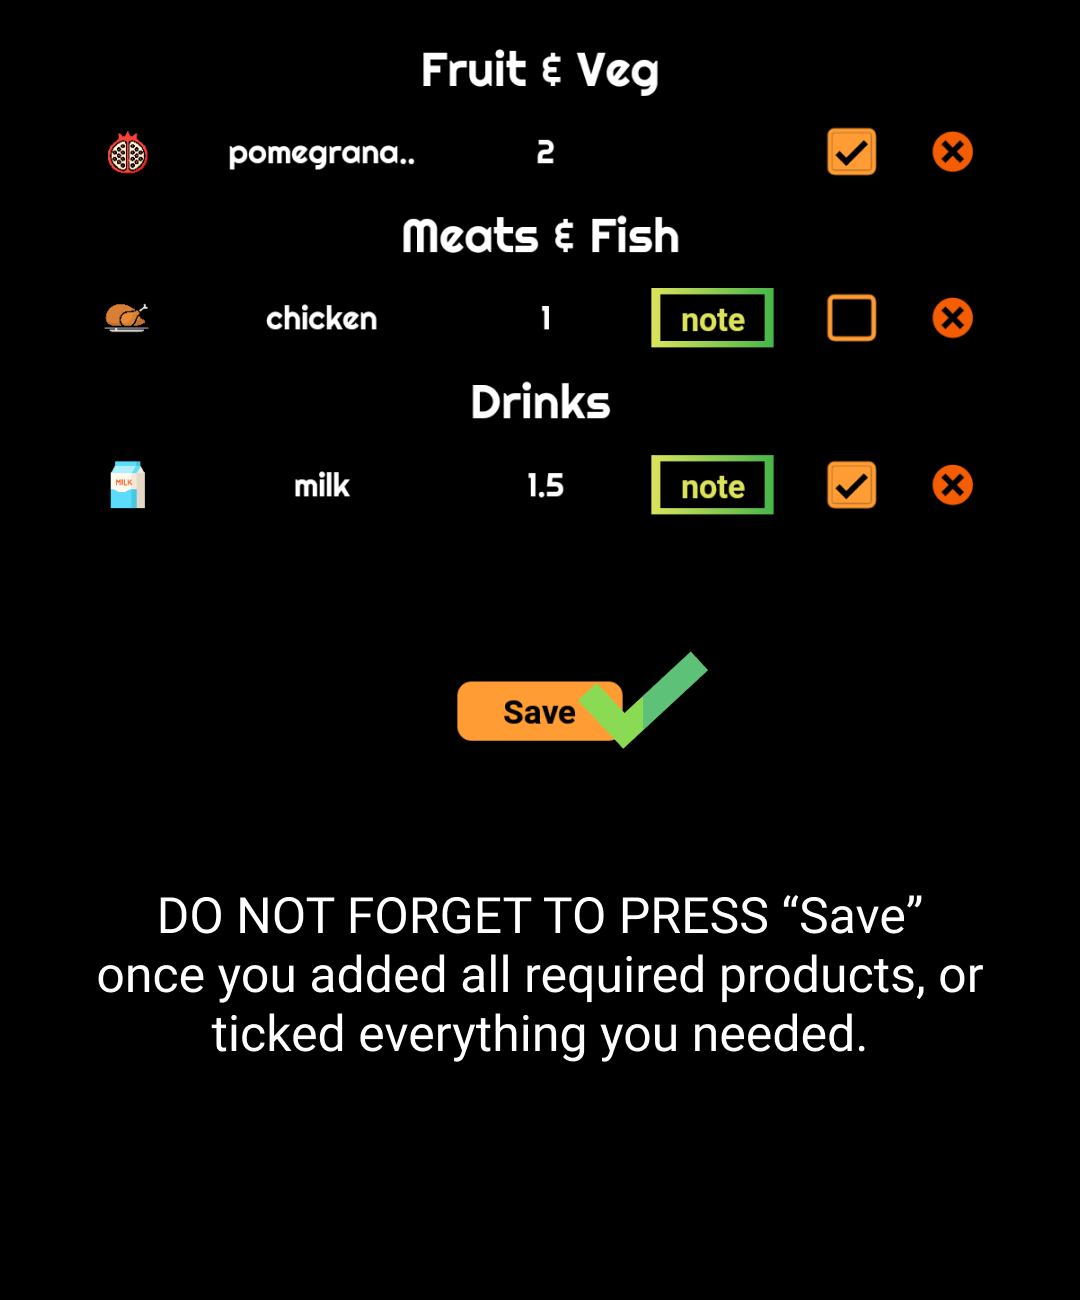
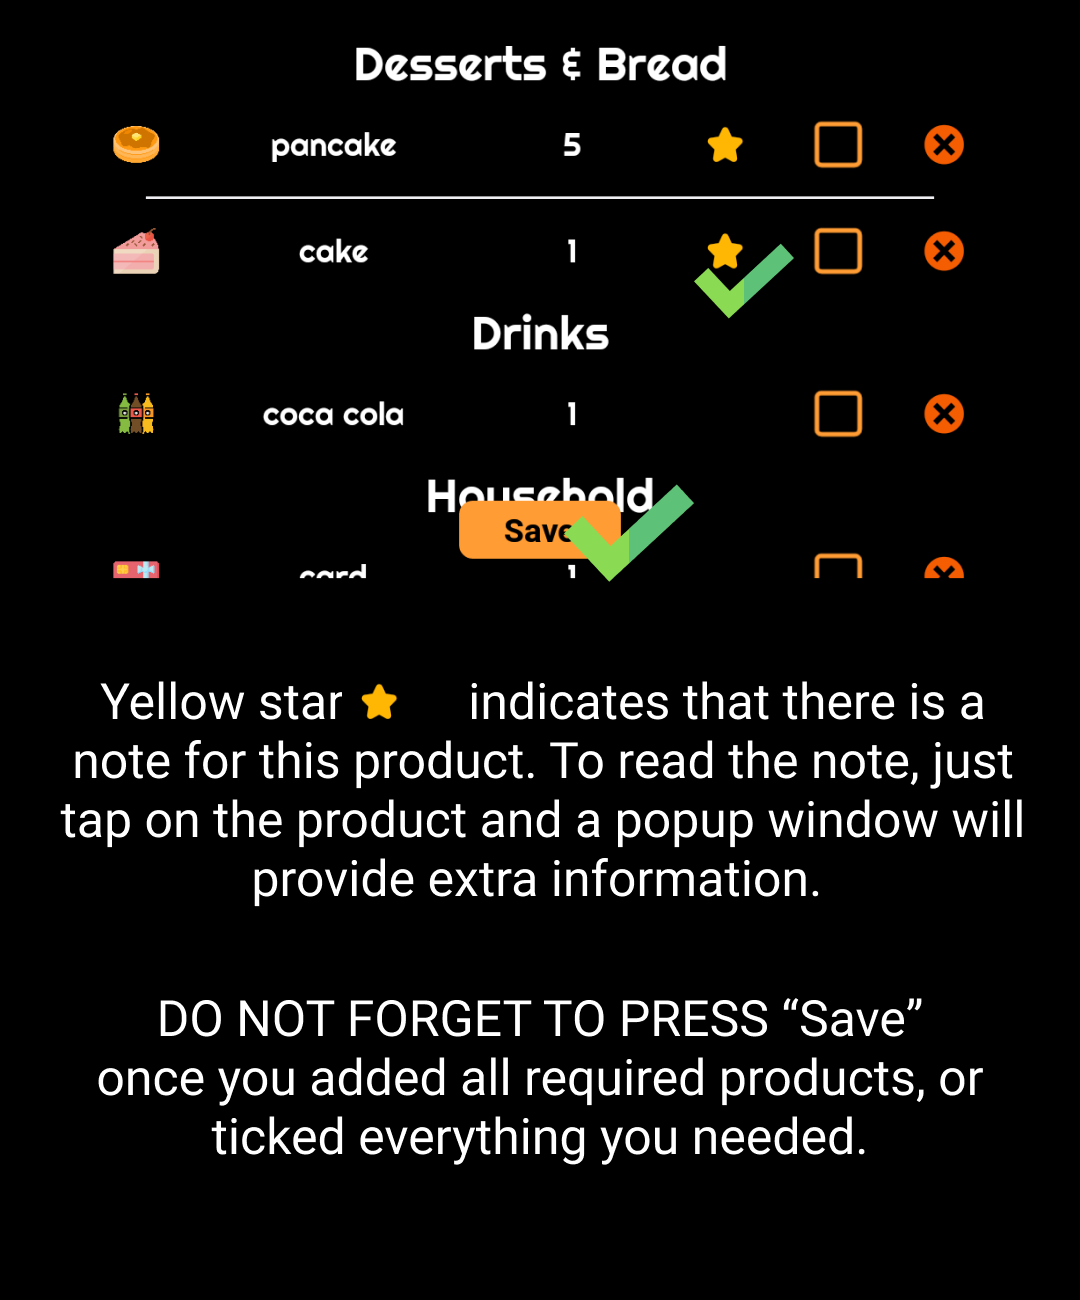
note changed to star

diff --git a/Pages/Basket.js b/Pages/Basket.js
@@ -15,7 +15,8 @@ import {
     ActivityIndicator,
     SafeAreaView,
     Keyboard,
-    TouchableWithoutFeedback
+    TouchableWithoutFeedback,
+    Modal
   
   } from 'react-native';
   import SearchDropDown from '../elements/SearchDropDown'
@@ -24,6 +25,7 @@ import {
   
   import Octicon from 'react-native-vector-icons/Octicons'
   import Icon from 'react-native-vector-icons/Entypo'
+  import AntDesign from 'react-native-vector-icons/AntDesign'
 
   import firestore from '@react-native-firebase/firestore'
   import firebase from '@react-native-firebase/app'
@@ -85,7 +87,8 @@ import {
     
     const [visBasket, setVisBasket] = useState(null)
 
-    const [visible, setVisible] = useState(false)
+    const [visibleNoneSpec, setVisibleNoneSpec] = useState(false)
+    const [visibleSpec, setVisibleSpec] = useState(false)
     const [visOrNot, setVisOrNot] = useState(false)
     const [isKeyboardVisible, setKeyboardVisible] = useState(false)
 
@@ -112,7 +115,6 @@ import {
         if(parsedFirst === null) {
           console.log('Tut?', parsedFirst)
           setFirstTime(true)
-          console.log(firstTime)
         } else {
           console.log('zdes', firstTime, parsedFirst)
           setFirstTime(false)}
@@ -582,7 +584,7 @@ try {
           <Pressable
           onPress={onPress}
           style={[styles.checkBox, style,
-          completed && {backgroundColor: '#FF9C33'}]}
+          completed && {backgroundColor: '#45B649', borderColor:'#45B649'}]}
           >
             {completed && <Octicon name="check" size={18} color='black' style={{position: 'absolute'}}/>}
           </Pressable>
@@ -709,25 +711,21 @@ setTempAmount(newAmount)
           
         return (
           <View>
-            <ModalPopup visible={visible} heightParam='40%'> 
+            <ModalPopup visible={visibleNoneSpec} heightParam='40%'> 
+              <LinearGradient start={{x:0, y:0}} end={{x:1, y:0}} colors={['#DCE35B', '#45B649']} style={styles.modalGradient}> 
 
-          <LinearGradient start={{x:0, y:0}} end={{x:1, y:0}} colors={['#DCE35B', '#45B649']} style={styles.modalGradient}> 
+                <View style={styles.modalView}>
+                <Text style={styles.modalText}>{tempName} : {tempAmount} {'\n'}{tempSpec}</Text>
+                  <LinearGradient start={{x:0, y:0}} end={{x:1, y:0}} colors={['#DCE35B', '#45B649']} style={styles.modalButtonGradient}> 
+                    <TouchableOpacity onPress={() => {setVisibleNoneSpec(false), setLoading(false)}} style={styles.confirmButton}>
+                       <Text style={{color: '#DCE35B'}}>Okay</Text>
+                    </TouchableOpacity>
+                  </LinearGradient>
+                </View>
 
-            <View style={styles.modalView}>
-            
-              <Text style={styles.modalText}>{tempName} : {tempAmount} {'\n'}{tempSpec}</Text>
-              <LinearGradient start={{x:0, y:0}} end={{x:1, y:0}} colors={['#DCE35B', '#45B649']} style={styles.modalButtonGradient}> 
-                <TouchableOpacity onPress={() => setVisible(false)} style={styles.confirmButton}>
-                <Text style={{color: '#DCE35B'}}>Okay</Text>
-                </TouchableOpacity>
               </LinearGradient>
-
-            </View>
-
-            </LinearGradient>
-
-          </ModalPopup> 
-          <TouchableOpacity onPress={() => {setVisible(true), getSpec(item.key, item.productType)}}style={{
+            </ModalPopup> 
+          <TouchableOpacity onPress={() => {setVisibleNoneSpec(true),setLoading(true), getSpec(item.key, item.productType)}}style={{
             flexDirection: 'row',
             marginHorizontal: scaledWidth('5%'),
             marginBottom: 10,
@@ -741,9 +739,9 @@ setTempAmount(newAmount)
                width: '27%'
             }]} >{trim()}</Text>
             <Text style={[styles.productList, {
-                width: '12%'
+                width: '15%'
             }]}>{trimAmount()}</Text>
-            <View style={{width: '14%',  height: 25}}></View>
+            <View style={{width: '7%',  height: 25}}></View>
             <CheckBox
               
               id={item.key}
@@ -759,9 +757,7 @@ setTempAmount(newAmount)
                   style={{
                     justifyContent: 'center',
                     alignItems: 'center',
-                    
                 }}>
-          
                     <Icon name="circle-with-cross" size={20} color='#F45D01'/>
               
                </TouchableOpacity>
@@ -774,7 +770,7 @@ setTempAmount(newAmount)
             
             <View>
 
-                <ModalPopup visible={visible} heightParam='40%'> 
+                <ModalPopup visible={visibleSpec} heightParam='40%'> 
 
                 <LinearGradient start={{x:0, y:0}} end={{x:1, y:0}} colors={['#DCE35B', '#45B649']} style={styles.modalGradient}> 
 
@@ -782,7 +778,7 @@ setTempAmount(newAmount)
                   
                     <Text style={styles.modalText}>{tempName} : {tempAmount} {'\n'}{tempSpec}</Text>
                     <LinearGradient start={{x:0, y:0}} end={{x:1, y:0}} colors={['#DCE35B', '#45B649']} style={styles.modalButtonGradient}> 
-                      <TouchableOpacity onPress={() => setVisible(false)} style={styles.confirmButton}>
+                      <TouchableOpacity onPress={() => {setVisibleSpec(false), setLoading(false)}} style={styles.confirmButton}>
                       <Text style={{color: '#DCE35B'}}>Okay</Text>
                       </TouchableOpacity>
                     </LinearGradient>
@@ -793,7 +789,7 @@ setTempAmount(newAmount)
 
                 </ModalPopup> 
 
-            <TouchableOpacity onPress={() => {setVisible(true), getSpec(item.key, item.productType)}}style={{
+            <TouchableOpacity onPress={() => {setVisibleSpec(true), setLoading(true), getSpec(item.key, item.productType)}}style={{
               flexDirection: 'row',
               marginHorizontal: scaledWidth('5%'),
               marginBottom: 10,
@@ -805,36 +801,29 @@ setTempAmount(newAmount)
               <Image source={imageSelect(item.productPreview)} resizeMode='contain' style={{height: 20,
               width: 20,}} />
               <Text style={[styles.productList, {
-                 width: '27%', 
+                 width: '27%'
               }]} >{trim()}</Text>
               <Text style={[styles.productList, {
-                  width: '12%', 
+                  width: '15%'
               }]}>{trimAmount()}</Text>
               
               
-                <LinearGradient start={{x:0, y:0}} end={{x:1, y:0}} colors={['#DCE35B', '#45B649']} style={{
-                  width:'14%',
+                <View style={{
+                  width:'7%',
                   height:25,
-                  
                   justifyContent: 'center',
-                  alignItems: 'center'
+                  alignItems: 'center',
                 }}>
-                  <TouchableOpacity onPress={() => {setVisible(true), getSpec(item.key, item.productType)}} style={{
-                
+                  <View style={{
                 justifyContent: 'center',
-                backgroundColor: 'black',
-                width: '85%',
-                height: 20
+                alignItems:'center',
+                flex:1,
+                height: 20,
               }}> 
-                  <Text style={{
-                    fontSize: scaledHeight('2%'),
-                    fontWeight: 'bold',
-                    textAlign: 'center',
-                    color: '#DCE35B'
-                  }}>note</Text>
+                  <AntDesign name='star' color='#ffb703' size={17}/>
 
-                  </TouchableOpacity>
-                </LinearGradient>
+                  </View>
+                </View>
               <CheckBox
                 
                 id={item.key}
@@ -1090,7 +1079,7 @@ const roomName = await AsyncStorage.getItem('roomName')
                 </View>
             </View>
           </ModalPopup>}
-              <ModalPopup visible={visOrNot}>
+              <ModalPopup visible={visOrNot} heightParam='40%'>
                 <LinearGradient start={{x:0, y:0}} end={{x:1, y:0}} colors={['#ffba08', '#e85d04']} style={{
                         flex:1,
                         borderRadius: 20,

diff --git a/elements/ModaPopUp.js b/elements/ModaPopUp.js
@@ -18,23 +18,14 @@ export default function ModalPopup ({visible, children, heightParam}) {
     const toggleModal = () => {
         if(visible) {
             setShowModal(true);
-            Animated.spring(scaleValue, {
-                toValue: 1,
-                duration: 300,
-                useNativeDriver: true
-            }).start()
+            
         } else {
-            setTimeout(() => setShowModal(false), 200)
-            Animated.timing(scaleValue, {
-                toValue:0,
-                duration: 300,
-                useNativeDriver: true
-            }).start()
+            setShowModal(false)
         }
     };
-
+    
     return(
-        <Modal transparent visible={showModal}>
+        <Modal transparent visible={showModal} hardwareAccelerated={true}>
             <View style= {{
                 flex: 1,
                 backgroundColor: 'transparent',
@@ -42,15 +33,15 @@ export default function ModalPopup ({visible, children, heightParam}) {
                 justifyContent: 'center',
                 alignItems: 'center'
             }}>
-                <Animated.View style={[{
+                <View style={{
                     width: '60%',
                     height: heightParam,
                     backgroundColor: 'black',
                     borderWidth:5,
-                    elevation: 20,
-                }, {transform: [{scale: scaleValue}]}]}>
+                    borderRadius: 25
+                }}>
                     {children}
-                </Animated.View>
+                </View>
             </View>
         </Modal>
     )

diff --git a/Assets/images/index.js b/Assets/images/index.js
@@ -137,6 +137,7 @@ const images  = {
     'bread':require('./allProducts/dessbread/bread.png'),
     'breadmaking':require('./allProducts/dessbread/breadmaking.png'),
     'cake decoration':require('./allProducts/dessbread/cakeDecoration.png'),
+    'cake':require('./allProducts/dessbread/cake.png'),
     'cocoa powder':require('./allProducts/dessbread/cocoaPowder.png'),
     'croissant':require('./allProducts/dessbread/croissant.png'),
     'custard':require('./allProducts/dessbread/custard.png'),

diff --git a/android/app/src/main/java/com/dvijeniii05/smartbasket/MainApplication.java b/android/app/src/main/java/com/dvijeniii05/smartbasket/MainApplication.java
@@ -1,4 +1,4 @@
-package com.smartbasket;
+package com.dvijeniii05.smartbasket;
 
 import android.app.Application;
 import android.content.Context;
@@ -66,7 +66,7 @@ public class MainApplication extends Application implements ReactApplication {
          We use reflection here to pick up the class that initializes Flipper,
         since Flipper library is not available in release mode
         */
-        Class<?> aClass = Class.forName("com.smartbasket.ReactNativeFlipper");
+        Class<?> aClass = Class.forName("com.dvijeniii05.smartbasket.ReactNativeFlipper");
         aClass
             .getMethod("initializeFlipper", Context.class, ReactInstanceManager.class)
             .invoke(null, context, reactInstanceManager);

diff --git a/android/app/src/debug/java/com/smartbook/ReactNativeFlipper.java b/android/app/src/debug/java/com/smartbook/ReactNativeFlipper.java
@@ -4,7 +4,7 @@
  * <p>This source code is licensed under the MIT license found in the LICENSE file in the root
  * directory of this source tree.
  */
-package com.smartbasket;
+package com.dvijeniii05.smartbasket;
 
 import android.content.Context;
 import com.facebook.flipper.android.AndroidFlipperClient;

diff --git a/android/app/src/main/java/com/dvijeniii05/smartbasket/MainActivity.java b/android/app/src/main/java/com/dvijeniii05/smartbasket/MainActivity.java
@@ -1,4 +1,4 @@
-package com.smartbasket;
+package com.dvijeniii05.smartbasket;
 import android.os.Bundle; // here
 import com.facebook.react.ReactActivity;
 import org.devio.rn.splashscreen.SplashScreen; // here
